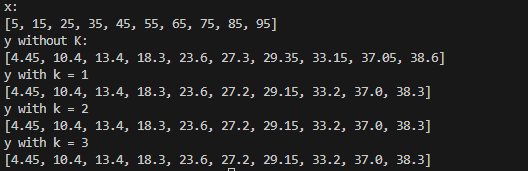
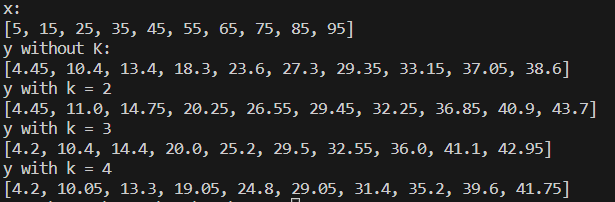
he so k final

diff --git a/main.py b/main.py
@@ -213,7 +213,7 @@ def NDR_scheduling(node_list, i, scheduled_list, unscheduled_list):
                 
     return leaf_id_list, current_scheduled_list
 
-def NDR_scheduling_with_k(node_list, i, scheduled_list, unscheduled_list, k_value):
+def NDR_scheduling_with_k(node_list, i, scheduled_list, unscheduled_list, k_value, current_scheduled_list):
     leaf_id_list = []
     
     for component_node in node_list:
@@ -236,7 +236,7 @@ def NDR_scheduling_with_k(node_list, i, scheduled_list, unscheduled_list, k_valu
         
     sorted_list = sorted(leaf_node_list, key=lambda x: x.rank, reverse=True)
     
-    current_scheduled_list = []
+    # current_scheduled_list = []
     current_collision = None
     for component_node in sorted_list:
         if primary_collision_checking(component_node, node_list, current_scheduled_list) == False and second_collision_checking(component_node, node_list, current_scheduled_list) == False:
@@ -430,11 +430,6 @@ def time_scheduling_with_k(D, L, t, k_value):
                 node_list[children_id].parentID = node.ID
                 node_list[children_id].depth = node.depth + 1
     
-    for node in node_list:
-        if len(node.childrenIDs) > k_value:
-            node.k_ready = k_value
-        else:
-            node.k_ready = len(node.childrenIDs)
 
     for i in range(0,len(node_list)):
         for k in range(0,len(node_list)):
@@ -448,9 +443,22 @@ def time_scheduling_with_k(D, L, t, k_value):
     unscheduled = []
     scheduled = []
     
+    
     # append unscheduled node
     for component_node in node_list:
         unscheduled.append(component_node.ID)
+
+
+    # assign for k
+    for node in node_list:
+        if len(node.childrenIDs) >= k_value - 1:
+            node.k_ready = k_value - 1
+        else:
+            node.k_ready = len(node.childrenIDs)
+            
+    
+
+
     # value of iteration    
     i = 0
     # Neighbor Degree Ranking
@@ -458,7 +466,41 @@ def time_scheduling_with_k(D, L, t, k_value):
         # timeslot 
         i = i + 1
         # print(i)
-        node_leaf_id_list, current_scheduled_list = NDR_scheduling_with_k(node_list, i, scheduled, unscheduled, k_value)
+        current_scheduled_list = []
+        for node_id in unscheduled:
+            if node_list[node_id].receivedMessage == node_list[node_id].k_ready and node_id != 0 and len(node_list[node_id].childrenIDs) > 0 and node_list[node_id].scheduled == False:
+                test1 = primary_collision_checking(node_list[node_id], node_list, current_scheduled_list)
+                test2 = second_collision_checking(node_list[node_id], node_list, current_scheduled_list)
+                if primary_collision_checking(node_list[node_id], node_list, current_scheduled_list) == False and second_collision_checking(node_list[node_id], node_list, current_scheduled_list) == False:
+                    if node_list[node_list[node_id].parentID].receivedMessage < node_list[node_list[node_id].parentID].k_ready:
+                        node_list[node_id].sendingTime += 1
+                        node_list[node_list[node_id].parentID].receivedMessage += 1
+                        
+                        if k_value*node_list[node_id].sendingTime < len(node_list[node_id].childrenIDs)+1:
+                            node_list[node_id].receivedMessage = 0
+                            remain_children = len(node_list[node_id].childrenIDs) - k_value*node_list[node_id].sendingTime + 1
+                            if remain_children >= k_value:
+                                node_list[node_id].k_ready = k_value
+                            else:
+                                if remain_children > 0:
+                                    node_list[node_id].k_ready = remain_children
+                                else:
+                                    node_list[node_list[node_id].parentID].ready -= 1
+                                    node_list[node_id].timeslot = i
+                                    node_list[node_id].receivedMessage = 0
+                                    node_list[node_id].scheduled = True
+                                    unscheduled.remove(node_id)
+                                    scheduled.append(node_id)
+                        elif k_value*node_list[node_id].sendingTime >= len(node_list[node_id].childrenIDs)+1:
+                            node_list[node_list[node_id].parentID].ready -= 1
+                            node_list[node_id].timeslot = i
+                            node_list[node_id].receivedMessage = 0
+                            node_list[node_id].scheduled = True
+                            unscheduled.remove(node_id)
+                            scheduled.append(node_id)
+                        current_scheduled_list.append(node_id)
+                
+        node_leaf_id_list, current_scheduled_list = NDR_scheduling_with_k(node_list, i, scheduled, unscheduled, k_value, current_scheduled_list)
         
 
 
@@ -471,39 +513,8 @@ def time_scheduling_with_k(D, L, t, k_value):
                 if node_id in component_node.neighbors:
                     component_node.neighbors.remove(node_id)
                     
-        
-        for node_id in unscheduled:
-            if node_list[node_id].receivedMessage == node_list[node_id].k_ready and node_list[node_id].ready > 0:
-                # print("hello")
-                if node_id != 0:
-                    if primary_collision_checking(node_list[node_id], node_list, current_scheduled_list) == False and second_collision_checking(node_list[node_id], node_list, current_scheduled_list) == False:
-                        if node_list[node_list[node_id].parentID].receivedMessage < node_list[node_list[node_id].parentID].k_ready:
-                            node_list[node_list[node_id].parentID].receivedMessage += 1
-                            node_list[node_id].sendingTime += 1
-                            remaining_children = len(node_list[node_id].childrenIDs) - k_value*node_list[node_id].sendingTime
-                            # print('hi')
-                            if remaining_children < 0:
-                                continue
-                            elif remaining_children == 0:
-                                node_list[node_id].timeslot = i
-                                node_list[node_id].scheduled = True
-                                node_list[node_list[node_id].parentID].ready -= 1
-                                scheduled.append(node_id)
-                                unscheduled.remove(node_id)
-                                
-                            else:
-                                if remaining_children >= k_value:
-                                    node_list[node_id].k_ready = k_value
-                                else: 
-                                    node_list[node_id].k_ready = remaining_children
-                                
-                        else:
-                            continue
-        
-        for component_node in node_list:
-            for node_id in scheduled:
-                if node_id in component_node.neighbors:
-                    component_node.neighbors.remove(node_id) 
+        listsss = []
+
 
 
         
@@ -599,10 +610,14 @@ def time_scheduling(D, L, t):
     
     
 if __name__ == "__main__":
-    t=13
-    delay1 = time_scheduling(5,4,t)
-    delay2 = time_scheduling_with_k(5,4,t,3)
-    
-    
-    print(delay1)
-    print(delay2)
+    # t=0
+    l=2
+    D = 95
+    for t in range(0,20):
+        delay = time_scheduling(D,l,t)
+        delay2 = time_scheduling_with_k(D,l,t,2)
+        delay3 = time_scheduling_with_k(D,l,t,3)
+        
+        print("without k: " + str(delay))
+        print("with k=2: " + str(delay2))
+        print("with k=3: " + str(delay3))

diff --git a/plot_graph.py b/plot_graph.py
@@ -1,7 +1,6 @@
 from main import time_scheduling, time_scheduling_with_k
 import matplotlib.pyplot as plt
 import os
-
 if __name__ == "__main__":
     # list = []
     # for i in range(0,30):
@@ -11,9 +10,10 @@ if __name__ == "__main__":
     L = 2
     x = []
     y = []
-    y_with_k_1 = []
+    
     y_with_k_2 = []
     y_with_k_3 = []
+    y_with_k_4 = []
     k = 5
     while k <= 95:
         list = []
@@ -24,21 +24,21 @@ if __name__ == "__main__":
         x.append(k)
         y.append(sum(list)/len(list))
         k += 10
-    k1 = 5
-    while k1 <= 95:
-        list_with_k = []
-        for i in range(0,20):
-            delay = time_scheduling_with_k(k1, L , i, 3)
-            list_with_k.append(delay)
-            print("D: " + str(k1) + " time: " + str(i) + " L: " + str(L) + " with k = 1")
-        # x.append(k)
-        y_with_k_1.append(sum(list_with_k)/len(list_with_k))
-        k1 += 10
+    # k1 = 5
+    # while k1 <= 95:
+    #     list_with_k = []
+    #     for i in range(0,20):
+    #         delay = time_scheduling_with_k(k1, L , i, 3)
+    #         list_with_k.append(delay)
+    #         print("D: " + str(k1) + " time: " + str(i) + " L: " + str(L) + " with k = 1")
+    #     # x.append(k)
+    #     y_with_k_1.append(sum(list_with_k)/len(list_with_k))
+    #     k1 += 10
     k2 = 5
     while k2 <= 95:
         list_with_k = []
         for i in range(0,20):
-            delay = time_scheduling_with_k(k2, L , i, 3)
+            delay = time_scheduling_with_k(k2, L , i, 2)
             list_with_k.append(delay)
             print("D: " + str(k2) + " time: " + str(i) + " L: " + str(L) + " with k = 2")
         # x.append(k)
@@ -54,20 +54,34 @@ if __name__ == "__main__":
         # x.append(k)
         y_with_k_3.append(sum(list_with_k)/len(list_with_k))
         k3 += 10
+    k4 = 5 
+    while k4 <= 95:
+        list_with_k = []
+        for i in range(0,20):
+            delay = time_scheduling_with_k(k4, L , i, 4)
+            list_with_k.append(delay)
+            print("D: " + str(k4) + " time: " + str(i) + " L: " + str(L) + " with k = 4")
+        # x.append(k)
+        y_with_k_4.append(sum(list_with_k)/len(list_with_k))
+        k4 += 10
     print("x:")
     print(x)
     print("y without K:")
     print(y)
-    print("y with k = 1")
-    print(y_with_k_1)
+    # print("y with k = 1")
+    # print(y_with_k_1)
     print("y with k = 2")
     print(y_with_k_2)
     print("y with k = 3")
     print(y_with_k_3)
+    print("y with k = 4")
+    print(y_with_k_4)
     plt.plot(x,y, label = "without k")
-    plt.plot(x,y_with_k_1, label = "with k=1")
+    # plt.plot(x,y_with_k_1, label = "with k=1")
     plt.plot(x,y_with_k_2, label = "with k=2")
     plt.plot(x,y_with_k_3, label = "with k=3")
+    
+    plt.plot(x,y_with_k_4, label = "with k=4")
     plt.xticks(range(5, 105, 10))
     plt.yticks(range(0, 100, 25))
     plt.legend()
@@ -76,9 +90,9 @@ if __name__ == "__main__":
     plt.show()
     # x = []
     # y = []
-    # # save_path = "C:/Users/ADMIN/Desktop/DATN/7/"
-    # save_path = "C:/Users/haicd/Desktop/DATN_SS/7"
-    # name_of_file = "7-1481-0.txt"
+    # save_path = "C:/Users/ADMIN/Desktop/DATN/2/"
+    # # save_path = "C:/Users/haicd/Desktop/DATN_SS/2"
+    # name_of_file = "2-19-0.txt"
     # full_directory = os.path.join(save_path, name_of_file)
     # file = open(full_directory)
     # for node_coordinate in file.readlines():

diff --git a/mlst.py b/mlst.py
@@ -127,8 +127,8 @@ if __name__ == "__main__":
     node_list = []
     # n = (95*2*2)/(math.pi)
     # r,im = divmod(n,1)
-    save_path = "C:/Users/ADMIN/Desktop/DATN/" + str(4) + "/"
-    name_of_file = str(4) + "-" + str(25) + "-" + str(0) + '.txt'
+    save_path = "C:/Users/ADMIN/Desktop/DATN/" + str(2) + "/"
+    name_of_file = str(2) + "-" + str(19) + "-" + str(0) + '.txt'
     full_directory = os.path.join(save_path, name_of_file)
     # print(full_directory)
     file = open(full_directory)
@@ -149,7 +149,7 @@ if __name__ == "__main__":
             if(distance(node_list[i], node_list[k]) < 1):
                 node_list[i].neighbors.append(k)
     
-    build_mlst(node_list, 4, 25, 0)
+    build_mlst(node_list, 2, 19, 0)
     for component_node in node_list:
         print("ID: " + str(component_node.ID))
         print(component_node.neighbors)

diff --git a/create_topology.py b/create_topology.py
@@ -1,0 +1,6 @@
+from node import Node
+
+
+
+if __name__ == "__main__":
+    
